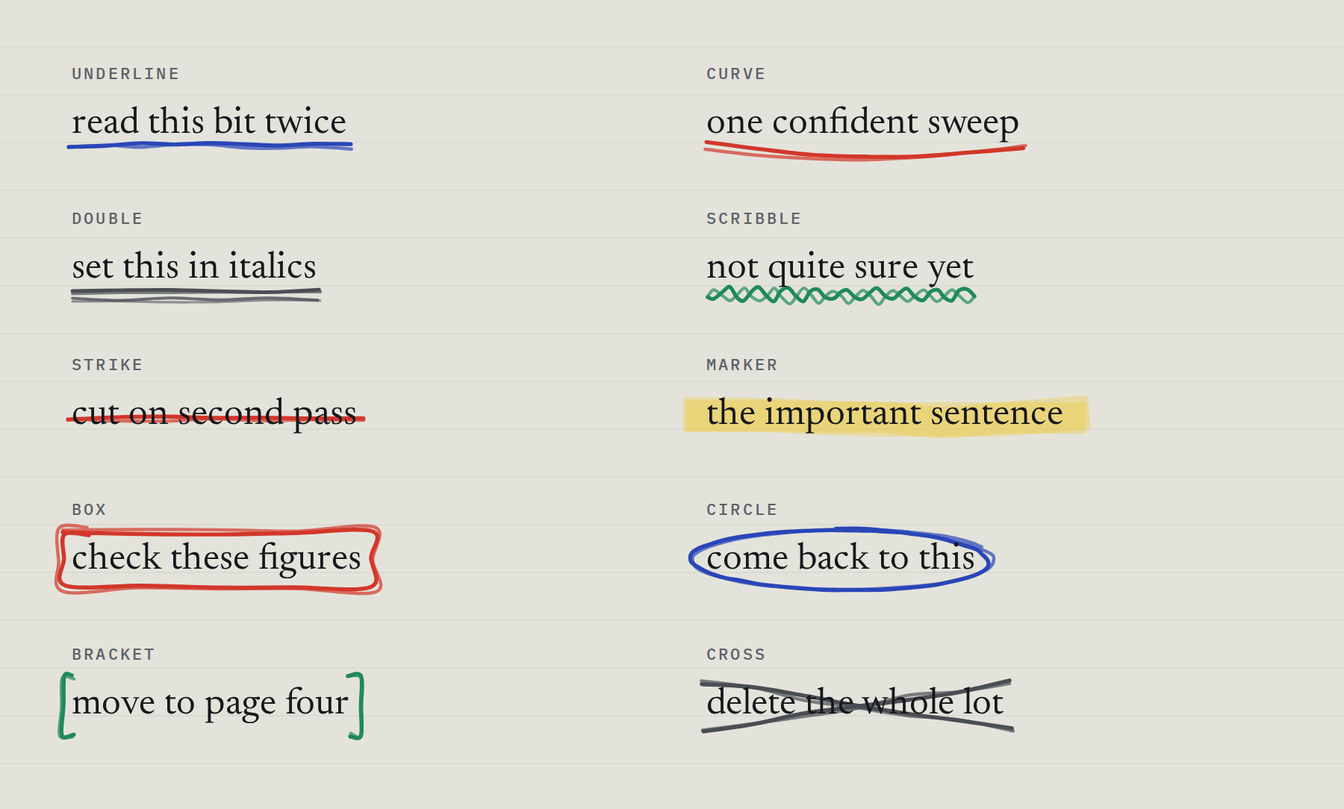
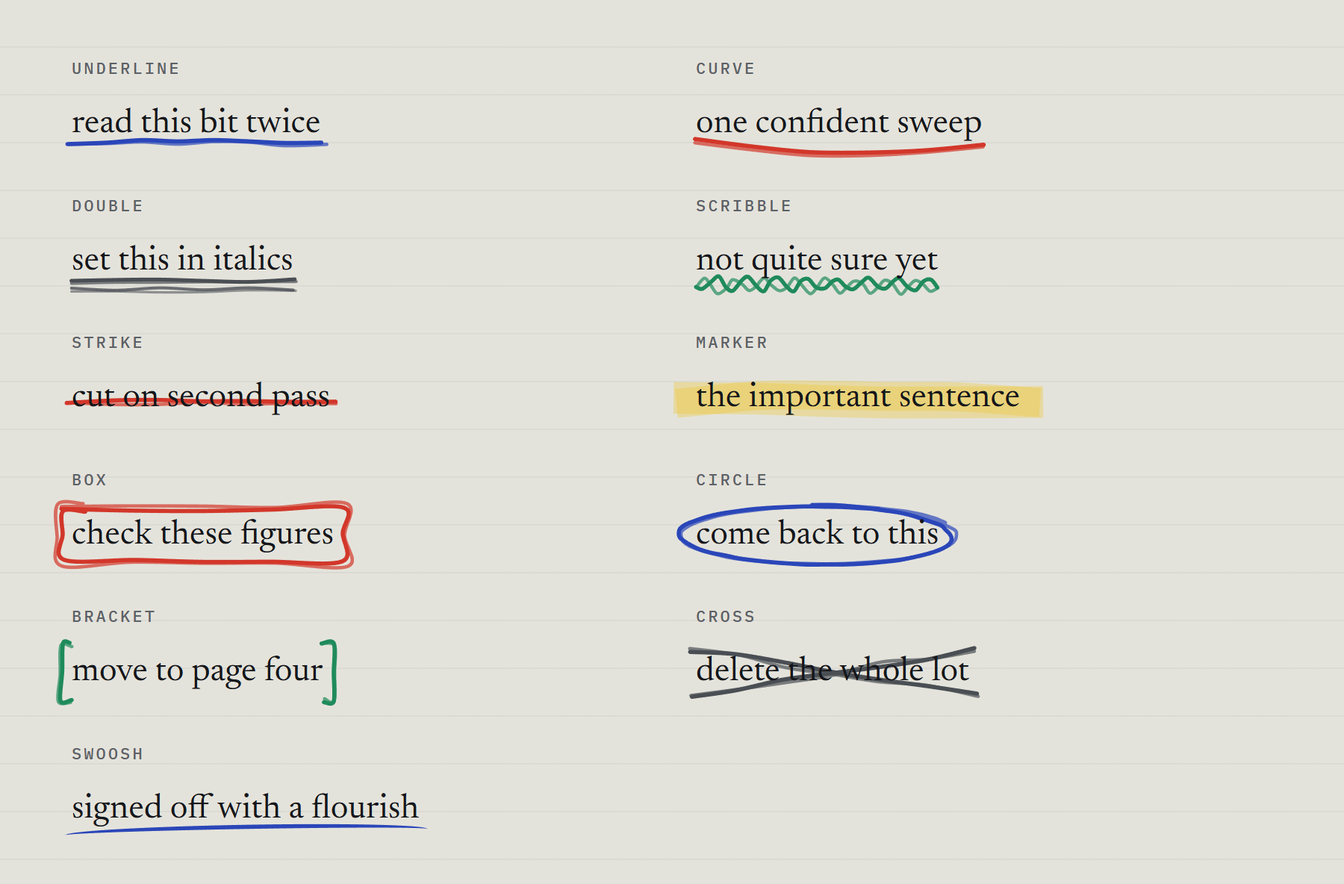
Release 0.2.0
Bump every banner, Scrawl.version, the demo's margin mark and the README's
jsDelivr pin to 0.2.0. Retake the shapes screenshot with swoosh in it and
add one of the arrows, the curl and a sticky note.

diff --git a/scrawl.min.js b/scrawl.min.js
@@ -1,9 +1,9 @@
 /*!
- * Scrawl v0.1.0
+ * Scrawl v0.2.0
  * Hand drawn annotation strokes for HTML text. No dependencies.
  * Draws seeded, slightly wonky SVG paths behind (or over) inline text,
  * one stroke per line box, and arrows from one element to another, with
  * an optional draw on reveal.
  * MIT licence.
  */
-!function(t,e){"use strict";"object"==typeof module&&module.exports?module.exports=e():t.Scrawl=e()}("undefined"!=typeof self?self:this,(function(){"use strict";var t="http://www.w3.org/2000/svg",e="cubic-bezier(.25,.6,.35,1)",r={underline:1,curve:1,scribble:1,marker:1,strike:1,double:1,swoosh:1},s={arrow:1,curl:1},i={type:"underline",color:null,thickness:null,opacity:null,passes:2,jitter:1,animate:!0,duration:650,delay:0,stagger:.35,direction:"right",front:null,seed:null,repeat:!1,threshold:.2,respectReducedMotion:!0,to:null,within:null,gap:null,head:"end"};function n(t){var e=t>>>0;return function(){e=e+1831565813|0;var t=Math.imul(e^e>>>15,1|e);return(((t=t+Math.imul(t^t>>>7,61|t)^t)^t>>>14)>>>0)/4294967296}}function o(t){for(var e=2166136261,r=0;r<t.length;r++)e^=t.charCodeAt(r),e=Math.imul(e,16777619);return e>>>0}function h(t){return Math.round(100*t)/100}function a(t){if(t.length<2)return"";for(var e="M"+h(t[0][0])+" "+h(t[0][1]),r=0;r<t.length-1;r++){var s=t[r-1]||t[r],i=t[r],n=t[r+1],o=t[r+2]||t[r+1];e+="C"+h(i[0]+(n[0]-s[0])/6)+" "+h(i[1]+(n[1]-s[1])/6)+" "+h(n[0]-(o[0]-i[0])/6)+" "+h(n[1]-(o[1]-i[1])/6)+" "+h(n[0])+" "+h(n[1])}return e}function u(t,e){return(t()-.5)*e}function l(t){return Math.max(1,Math.round(t.passes)||1)}function d(t){return 0===t?1:Math.max(.55,1-.18*t)}function c(t){return 0===t?1:Math.max(.38,1-.3*t)}function f(t,e,r){return t<e?e:t>r?r:t}function p(t,e,r,s,i,n,o,h){for(var a=0;a<n;a++){var l=a/n;t.push([e+(s-e)*l+u(o,h),r+(i-r)*l+u(o,h)])}}function v(t,e,r){var s,i=t.x+t.w/2,n=t.y+t.h/2,o=e.x+e.w/2,h=e.y+e.h/2,a=Math.max(e.x-t.x-t.w,t.x-e.x-e.w),u=Math.max(e.y-t.y-t.h,t.y-e.y-e.h);if(a<=0&&u<=0)return null;if(a>=u){var l=o>i?1:-1;return s=Math.min(r,a/3),{sx:i+l*(t.w/2+s),sy:n,ex:o-l*(e.w/2+s),ey:h,dx:l,dy:0}}var d=h>n?1:-1;return s=Math.min(r,u/3),{sx:i,sy:n+d*(t.h/2+s),ex:o,ey:h-d*(e.h/2+s),dx:0,dy:d}}function w(t){return null!=t.gap?t.gap:Math.max(4,2.5*t.thickness)}function y(t,e){var r=e[0]-t[0],s=e[1]-t[1];return Math.sqrt(r*r+s*s)}function m(t,e){var r,s,i,n,o,h,a,l,d,c=[t[0].p[0]],f=[0];for(r=0;r<t.length;r++){var p=t[r].p,v=(y(p[0],p[1])+y(p[1],p[2])+y(p[2],p[3])+y(p[0],p[3]))/2,w=Math.max(2,Math.ceil(v/t[r].step));for(s=1;s<=w;s++)c.push((o=void 0,h=void 0,a=void 0,l=void 0,d=void 0,a=3*(o=1-(n=s/w))*o*n,l=3*o*n*n,d=n*n*n,[(h=o*o*o)*(i=p)[0][0]+a*i[1][0]+l*i[2][0]+d*i[3][0],h*i[0][1]+a*i[1][1]+l*i[2][1]+d*i[3][1]])),f.push(t[r].amp)}var m=c.length-1;for(s=1;s<m;s++){var g=Math.sin(Math.PI*s/m);c[s]=[c[s][0]+u(e,f[s])*g,c[s][1]+u(e,f[s])*g]}return c}function g(t,e,r,s,i){for(var n=e?-1:1,o=e?t.length-1:0,a=t[o],l=a,f=Math.max(7,5.5*r.thickness),p=o+n;p>=0&&p<t.length&&!(y(l=t[p],a)>=.6*f);p+=n);for(var v=y(l,a)||1,w=(a[0]-l[0])/v,m=(a[1]-l[1])/v,g=[],k=1;k>=-1;k-=2){var _=k*(.5+u(s,.16*r.jitter)),x=f*(1+u(s,.24*r.jitter)),M=Math.cos(_),b=Math.sin(_);g.push([a[0]-x*(w*M-m*b),a[1]-x*(w*b+m*M)])}return{d:"M"+h(g[0][0])+" "+h(g[0][1])+"L"+h(a[0])+" "+h(a[1])+"L"+h(g[1][0])+" "+h(g[1][1]),w:r.thickness*d(i),o:c(i),then:!0,span:.3}}function k(t,e,r,s,i){"end"!==r.head&&"both"!==r.head||t.push(g(e,!0,r,s,i)),"start"!==r.head&&"both"!==r.head||t.push(g(e,!1,r,s,i))}var _=[[28,-12],[46,4],[36,22],[24,40],[10,17],[32,15],[46,13]];function x(t,e,r,s,i,n,o,h){var a=(t[0]+u(o,h))*r,l=(t[1]+u(o,h))*r*s;return[e.sx+e.dx*a+i*l,e.sy+e.dy*a+n*l]}var M={underline:function(t,e,r){for(var s=[],i=0;i<l(e);i++){for(var n=f(Math.round(t.w/24),3,90),o=t.y+t.h+.4*e.thickness+i*e.thickness*.7*(.6+.8*r()),h=1.8*e.thickness*e.jitter,p=[],v=0;v<=n;v++){var w=v/n,y=t.x+w*t.w;0===v&&(y-=h*r()),v===n&&(y+=h*r());var m=o+u(r,e.thickness*e.jitter)-Math.sin(w*Math.PI)*e.thickness*.3;p.push([y,m])}s.push({d:a(p),w:e.thickness*d(i),o:c(i)})}return s},curve:function(t,e,r){for(var s=[],i=0;i<l(e);i++){for(var n=f(Math.round(t.w/36),4,60),o=t.y+t.h+.3*e.thickness+i*e.thickness*.6,h=f(.035*t.w,1.6*e.thickness,7*e.thickness)*(.85+.35*r())*e.jitter,p=u(r,1.4*e.thickness*e.jitter),v=[],w=0;w<=n;w++){var y=w/n,m=t.x+y*t.w+(0===w?-e.thickness*r():w===n?2*e.thickness*r():0),g=o+Math.sin(y*Math.PI)*h+p*(y-.5)*2+u(r,.3*e.thickness);v.push([m,g])}s.push({d:a(v),w:e.thickness*d(i),o:c(i)})}return s},double:function(t,e,r){for(var s=[],i=0;i<l(e);i++)for(var n=0;n<2;n++){for(var o=f(Math.round(t.w/30),3,70),h=t.y+t.h+.5*e.thickness+n*e.thickness*2.1+i*e.thickness*.4,p=[],v=0;v<=o;v++){var w=v/o,y=t.x+w*t.w+(v===o?1.4*e.thickness*r():0);p.push([y,h+u(r,.7*e.thickness*e.jitter)])}s.push({d:a(p),w:e.thickness*(n?.72:.9)*d(i),o:(n?.8:1)*c(i)})}return s},scribble:function(t,e,r){for(var s=[],i=t.y+t.h+1.3*e.thickness,n=1.6*e.thickness*e.jitter,o=f(Math.round(t.w/20),3,55),h=0;h<l(e);h++){for(var p=f(4*o,8,200),v=h*Math.PI*.8+.7*r(),w=[],y=0;y<=p;y++){var m=y/p,g=t.x+m*t.w+u(r,.5*e.thickness),k=i+Math.sin(m*o*Math.PI*2+v)*n*(.7+.6*r())+(h?.5*e.thickness:0);w.push([g,k])}s.push({d:a(w),w:.95*e.thickness*d(h),o:c(h)})}return s},strike:function(t,e,r){for(var s=[],i=0;i<l(e);i++){for(var n=f(Math.round(t.w/30),3,70),o=t.y+.58*t.h+i*e.thickness*.6,h=2*e.thickness*e.jitter,p=[],v=0;v<=n;v++){var w=v/n,y=t.x+w*t.w;0===v&&(y-=h*r()),v===n&&(y+=h*r()),p.push([y,o+u(r,.9*e.thickness*e.jitter)])}s.push({d:a(p),w:e.thickness*d(i),o:c(i)})}return s},marker:function(t,e,r){for(var s=[],i=0;i<l(e);i++){for(var n=f(Math.round(t.w/40),3,40),o=t.y+.56*t.h+(i?u(r,.12*t.h):0),h=[],d=0;d<=n;d++){var c=d/n,p=t.x+c*t.w;0===d&&(p-=t.h*(.18-.04*i)),d===n&&(p+=t.h*(.22-.05*i)),h.push([p,o+u(r,.2*t.h*e.jitter)])}s.push({d:a(h),w:t.h*(.92-.08*i),o:1,cap:"square"})}return s},box:function(t,e,r){for(var s=[],i=1.2*e.thickness*e.jitter,n=0;n<l(e);n++){var o=2*e.thickness+n*e.thickness*.9,h=t.x-o,v=t.x+t.w+o,w=t.y-o,y=t.y+t.h+o,m=[];p(m,h,w,v,w,f(Math.round(t.w/45),3,20),r,i),p(m,v,w,v,y,f(Math.round(t.h/20),2,10),r,i),p(m,v,y,h,y,f(Math.round(t.w/45),3,20),r,i),p(m,h,y,h,w,f(Math.round(t.h/20),2,10),r,i),m.push([h+u(r,i),w+u(r,i)]),m.push([h+.06*t.w+r()*t.w*.06,w+u(r,i)]),s.push({d:a(m),w:e.thickness*d(n),o:c(n)})}return s},circle:function(t,e,r){for(var s=[],i=t.x+t.w/2,n=t.y+t.h/2,o=t.w/2+3*e.thickness,h=t.h/2+3*e.thickness,f=0;f<l(e);f++){for(var p=.55*-Math.PI+.35*r(),v=2*Math.PI*(1.05+.14*r()),w=[],y=0;y<=48;y++){var m=p+v*(y/48),g=1+.035*Math.sin(2.3*m+f)*e.jitter+u(r,.022*e.jitter);w.push([i+Math.cos(m)*o*g+1.4*f,n+Math.sin(m)*h*g])}s.push({d:a(w),w:e.thickness*d(f),o:c(f)})}return s},bracket:function(t,e,r){var s=2.5*e.thickness,i=t.x-s,n=t.x+t.w+s,o=t.y-s,h=t.y+t.h+s,p=f(.3*t.h,4,26),v=1.1*e.thickness*e.jitter;function w(t,s,i){return{d:a([[t+s*p+u(r,v),o+u(r,v)],[t+u(r,v),o+u(r,.6*v)],[t+u(r,.6*v),o+.5*(h-o)+u(r,v)],[t+u(r,v),h+u(r,.6*v)],[t+s*p+u(r,v),h+u(r,v)]]),w:e.thickness*d(i),o:c(i)}}for(var y=[],m=0;m<l(e);m++)y.push(w(i-m,1,m),w(n+m,-1,m));return y},cross:function(t,e,r){var s=1.5*e.thickness,i=t.x-s,n=t.x+t.w+s,o=t.y-s,h=t.y+t.h+s,f=1.4*e.thickness*e.jitter;function p(t,s,i,n,o){for(var h=[],l=0;l<=6;l++){var p=l/6;h.push([t+(i-t)*p+u(r,f),s+(n-s)*p+u(r,f)])}return{d:a(h),w:e.thickness*d(o),o:c(o)}}for(var v=[],w=0;w<l(e);w++)v.push(p(i,o,n,h,w),p(n,o,i,h,w));return v},swoosh:function(t,e){var r=e.thickness,s=(t.w+3.5*r)/2,i=1.75*r,n=t.x-1.5*r+s,o=t.y+t.h+1.35*r,a=-e.jitter,u=a*Math.PI/180,l=s*Math.cos(u),d=s*Math.sin(u),c=h(n-l)+" "+h(o-d),f=h(n+l)+" "+h(o+d);function p(t,e,r){return"A"+h(s)+" "+h(t)+" "+h(a)+" 0 "+e+" "+r}return[{d:"M"+c+p(i-r/2,1,f),fill:"M"+c+p(i,1,f)+p(i-r,0,c)+"Z",w:2*r,cap:"butt",o:1}]},arrow:function(t,e,r,s){var i=v(t,s,w(e));if(!i)return[];for(var n=Math.abs(i.dx?i.ex-i.sx:i.ey-i.sy)/2,o=-i.dy,h=i.dx,f=u(r,.14*y([i.sx,i.sy],[i.ex,i.ey]))*e.jitter,p=[],g=0;g<l(e);g++){var _=f+(g?u(r,2*e.thickness*e.jitter):0),x=m([{p:[[i.sx,i.sy],[i.sx+i.dx*n+o*_,i.sy+i.dy*n+h*_],[i.ex-i.dx*n+o*_,i.ey-i.dy*n+h*_],[i.ex,i.ey]],step:28,amp:.9*e.thickness*e.jitter}],r);p.push({d:a(x),w:e.thickness*d(g),o:c(g)}),k(p,x,e,r,g)}return p},curl:function(t,e,r,s){var i=v(t,s,w(e));if(!i)return[];for(var n=[i.sx,i.sy],o=[i.ex,i.ey],h=i.dy,u=-i.dx,p=(o[0]-n[0])*h+(o[1]-n[1])*u,g=Math.abs(p)>e.thickness?p>0?1:-1:(i.dx?u:h)>0?1:-1,M=Math.min(f(e.thickness/1.7,.85,2.4),.5*y(n,o)/46),b=.3*e.thickness*e.jitter,A=[],j=0;j<l(e);j++){for(var T=[],C=0;C<_.length;C++)T.push(x(_[C],i,M,g,h,u,r,4*e.jitter));var S=y(T[5],o),L=y(T[5],T[6])||1,N=Math.max(14*M,.18*S),R=Math.max(24*M,.16*S),E=[T[5][0]+(T[6][0]-T[5][0])/L*N,T[5][1]+(T[6][1]-T[5][1])/L*N],I=[o[0]-i.dx*R-8*h*M*g,o[1]-i.dy*R-8*u*M*g],O=m([{p:[n,T[0],T[1],T[2]],step:6,amp:b},{p:[T[2],T[3],T[4],T[5]],step:6,amp:b},{p:[T[5],E,I,o],step:28,amp:.9*e.thickness*e.jitter}],r);A.push({d:a(O),w:e.thickness*d(j),o:c(j)}),k(A,O,e,r,j)}return A}},b=0,A={marker:.32};function j(t,e){this.el=t,this.opts=e,this.svg=null,this.strokes=[],this._seq=[],this.shown=!1,this._hidden=!1,this._revealed=!1,this._host=null,this._io=null,this._ro=null,this._anims=null,this._revealTimer=null}function T(t,e){return Object.prototype.hasOwnProperty.call(t,e)}function C(t){for(var e=1/0,r=1/0,s=-1/0,i=-1/0,n=0;n<t.length;n++)e=Math.min(e,t[n].x),r=Math.min(r,t[n].y),s=Math.max(s,t[n].x+t[n].w),i=Math.max(i,t[n].y+t[n].h);return{x:e,y:r,w:s-e,h:i-r}}function S(t,e){for(var r=e.x+e.w/2,s=e.y+e.h/2,i=t[0],n=1/0,o=0;o<t.length;o++){var h=t[o].x+t[o].w/2-r,a=t[o].y+t[o].h/2-s;h*h+a*a<n&&(n=h*h+a*a,i=t[o])}return i}function L(t){if(!t)return null;if("string"==typeof t)try{return document.querySelector(t)}catch(t){return null}return 1===t.nodeType?t:null}function N(t){var e=0;try{e=t.getTotalLength()}catch(t){e=0}return e||1}function R(t,e){return"threshold"===t?f(e,0,1):"duration"===t||"delay"===t||"stagger"===t?Math.max(0,e):"opacity"===t?f(e,0,1):"thickness"===t||"jitter"===t||"passes"===t||"gap"===t?Math.max(0,e):e}j.prototype._stopAnims=function(){if(this._anims){for(var t=0;t<this._anims.length;t++)try{this._anims[t].cancel()}catch(t){}this._anims=null}},j.prototype._muted=function(t){return!1!==t.respectReducedMotion&&window.matchMedia&&window.matchMedia("(prefers-reduced-motion: reduce)").matches},j.prototype._resolve=function(){var t=window.getComputedStyle(this.el),e=parseFloat(t.fontSize)||16,r={};for(var i in this.opts)T(this.opts,i)&&(r[i]=this.opts[i]);M[r.type]||(r.type="underline"),r.thickness=null!=r.thickness?r.thickness:Math.max(1.4,.085*e),r.color=r.color||t.color||"#000",r.jitter=null==r.jitter?1:r.jitter,null==r.opacity&&(r.opacity=null!=A[r.type]?A[r.type]:1);var n=!!s[r.type];return null==r.front&&(r.front=n),n&&(r.direction="right","start"!==r.head&&"both"!==r.head&&"none"!==r.head&&(r.head="end")),r},j.prototype.render=function(){this.destroySvg();var e=this.el;if(!e.parentNode||!e.getClientRects||!e.getClientRects().length)return this;var i=this._resolve(),a=e.parentNode,u=null;if(s[i.type]){if(!(u=L(i.to))||u===e||!u.getClientRects().length)return this;a=L(i.within)||function(t,e){for(var r=t.parentNode;r&&1===r.nodeType;r=r.parentNode)if(r!==e&&r.contains(e)){if(r===document.documentElement)break;var s=window.getComputedStyle(r).display;if("contents"!==s&&"inline"!==s)return r}return document.body}(e,u)}if(!a||!a.getBoundingClientRect)return this;var l=a.getBoundingClientRect(),d=window.getComputedStyle(a);this._host!==a&&(this._releaseHost(),this._host=a,a.__scrawlHost||(a.__scrawlHost={pos:a.style.position,iso:a.style.isolation})),"static"===d.position&&(a.style.position="relative"),i.front||"isolate"===d.isolation||(a.style.isolation="isolate");var c,f,p=parseFloat(d.borderLeftWidth)||0,v=parseFloat(d.borderTopWidth)||0,w=1,y=1;function m(t,e){for(var r=t.getClientRects(),s=[],i=0;i<r.length;i++){var n=r[i];n.width<.5&&!(e&&n.height>0)||s.push({x:(n.left-l.left)/w-p+a.scrollLeft,y:(n.top-l.top)/y-v+a.scrollTop,w:n.width/w,h:n.height/y})}return s}a.offsetWidth>0&&l.width>0&&(c=l.width/a.offsetWidth,Math.abs(c-1)>.005&&(w=c)),a.offsetHeight>0&&l.height>0&&(c=l.height/a.offsetHeight,Math.abs(c-1)>.005&&(y=c));var g=m(e,!!u);if(!g.length)return this;var k,_=null;if(u){var x=m(u,!0);if(!x.length)return this;k=[S(g,C(x))],_=S(x,k[0])}else k=r[i.type]?g:[C(g)];var A=Math.max(6*i.thickness,.9*k[0].h,14),j=C(_?[k[0],_]:k),T=j.x-A,N=j.y-A,R=j.w+2*A,E=j.h+2*A,I=document.createElementNS(t,"svg");I.setAttribute("class","scrawl-svg"),I.setAttribute("width",R),I.setAttribute("height",E),I.setAttribute("viewBox","0 0 "+h(R)+" "+h(E)),I.setAttribute("aria-hidden","true"),I.setAttribute("focusable","false");var O=I.style;O.position="absolute",O.left=h(T)+"px",O.top=h(N)+"px",O.width=h(R)+"px",O.height=h(E)+"px",O.pointerEvents="none",O.overflow="visible",O.zIndex=i.front?"1":"-1";var q=n(null!=i.seed?"number"==typeof i.seed?i.seed:o(String(i.seed)):o((e.textContent||"")+(u&&u.textContent||"")+i.type)),D=M[i.type]||M.underline,H=_?{x:_.x-T,y:_.y-N,w:_.w,h:_.h}:void 0;this.strokes=[],this._seq=[];var P=[];for(f=0;f<k.length;f++)for(var F=D({x:k[f].x-T,y:k[f].y-N,w:k[f].w,h:k[f].h},i,q,H),B=0;B<F.length;B++){var z=document.createElementNS(t,"path"),W=(null!=F[B].o?F[B].o:1)*i.opacity;if(z.setAttribute("d",F[B].d),z.setAttribute("fill","none"),z.setAttribute("stroke",i.color),z.setAttribute("stroke-width",h(F[B].w)),z.setAttribute("stroke-linecap",F[B].cap||"round"),z.setAttribute("stroke-linejoin","round"),F[B].fill){var U=document.createElementNS(t,"mask"),Q="scrawl-mask-"+ ++b;U.setAttribute("id",Q),U.setAttribute("maskUnits","userSpaceOnUse"),U.setAttribute("x",0),U.setAttribute("y",0),U.setAttribute("width",h(R)),U.setAttribute("height",h(E)),z.setAttribute("stroke","#fff"),U.appendChild(z),I.appendChild(U);var Z=document.createElementNS(t,"path");Z.setAttribute("d",F[B].fill),Z.setAttribute("fill",i.color),Z.setAttribute("mask","url(#"+Q+")"),Z.setAttribute("opacity",W),I.appendChild(Z),P.push({node:Z,reach:0})}else z.setAttribute("opacity",W),I.appendChild(z),P.push({node:z,reach:F[B].w/2*("square"===F[B].cap?Math.SQRT2:1)});this.strokes.push(z),this._seq.push({then:!!F[B].then,span:F[B].span||1})}return this.strokes.length?(a.appendChild(I),function(t,e,r,s){for(var i=1/0,n=1/0,o=-1/0,a=-1/0,u=0;u<e.length;u++){var l;try{l=e[u].node.getBBox()}catch(t){return}var d=e[u].reach+1;i=Math.min(i,l.x-d),n=Math.min(n,l.y-d),o=Math.max(o,l.x+l.width+d),a=Math.max(a,l.y+l.height+d)}if(!(o>i&&a>n))return;i=Math.floor(i),n=Math.floor(n);var c=Math.ceil(o)-i,f=Math.ceil(a)-n;t.setAttribute("width",h(c)),t.setAttribute("height",h(f)),t.setAttribute("viewBox",h(i)+" "+h(n)+" "+h(c)+" "+h(f));var p=t.style;p.left=h(r+i)+"px",p.top=h(s+n)+"px",p.width=h(c)+"px",p.height=h(f)+"px"}(I,P,T,N),this.svg=I,this._resolved=i,this.shown?this._paint(!1):this._hideStrokes(this._hidden),this):this},j.prototype._hideStrokes=function(t){var e=this._resolved||this.opts;if(e.animate&&!this._muted(e))for(var r=0;r<this.strokes.length;r++){var s=N(this.strokes[r]),i=this.strokes[r].style;i.transition="none",i.strokeDasharray=s+" "+s,i.strokeDashoffset="left"===e.direction?-s:s}else t&&this.svg&&(this.svg.style.visibility="hidden")},j.prototype._paint=function(t){var r,s,i,n=this._resolved||this.opts,o=t&&n.animate&&!this._muted(n);if(this._stopAnims(),this._revealTimer&&(clearTimeout(this._revealTimer),this._revealTimer=null),this.svg&&this.strokes.length)if(this._hidden=!1,this.svg.style.visibility="",o){this._revealed=!1;var h=this.strokes.length&&"function"==typeof this.strokes[0].animate,a=n.delay+n.duration,u=this._timing(n);for(this._anims=[],r=0;r<this.strokes.length;r++){i=(s=this.strokes[r]).style;var l=N(s),d="left"===n.direction?-l:l;a=Math.max(a,u[r].wait+u[r].dur),i.strokeDasharray=l+" "+l,h?(i.transition="none",i.strokeDashoffset="0",this._anims.push(s.animate([{strokeDashoffset:d},{strokeDashoffset:0}],{duration:u[r].dur,delay:u[r].wait,easing:e,fill:"backwards"}))):(i.transition="none",i.strokeDashoffset=d)}if(!h)for(this.svg.getBoundingClientRect(),r=0;r<this.strokes.length;r++)this.strokes[r].style.transition="stroke-dashoffset "+u[r].dur/1e3+"s "+e+" "+u[r].wait/1e3+"s",this.strokes[r].style.strokeDashoffset="0";var c=this;this._revealTimer=setTimeout((function(){c._revealed=!0,c._revealTimer=null}),a+60)}else{for(r=0;r<this.strokes.length;r++)(i=this.strokes[r].style).transition="none",i.strokeDasharray="none",i.strokeDashoffset="0";this._revealed=!0}},j.prototype._timing=function(t){for(var e=[],r=0,s=0;s<this.strokes.length;s++){var i=this._seq[s]||{},n=e[s-1];e.push({wait:i.then&&n?n.wait+.8*n.dur:t.delay+r++*t.duration*t.stagger,dur:t.duration*(i.span||1)})}return e},j.prototype.show=function(t){return this.shown=!0,this.svg||this.render(),this._paint(!1!==t),this},j.prototype.hide=function(){return this.shown=!1,this._hidden=!0,this._stopAnims(),this._revealTimer&&(clearTimeout(this._revealTimer),this._revealTimer=null),this._revealed=!1,this._hideStrokes(!0),this},j.prototype.refresh=function(){var t=this.shown,e=this._revealed;return this.render(),t&&this._paint(!e),this},j.prototype.destroySvg=function(){this._stopAnims(),this.svg&&this.svg.parentNode&&this.svg.parentNode.removeChild(this.svg),this.svg=null,this.strokes=[],this._seq=[]},j.prototype._releaseHost=function(){var t=this._host;if(this._host=null,t){for(var e=0;e<O.length;e++)if(O[e]!==this&&O[e]._host===t)return;var r=t.__scrawlHost;r&&(t.style.position=r.pos,t.style.isolation=r.iso,t.__scrawlHost=null)}},j.prototype.remove=function(){this._io&&(this._io.disconnect(),this._io=null),this._ro&&(this._ro.disconnect(),this._ro=null),this._revealTimer&&(clearTimeout(this._revealTimer),this._revealTimer=null);var t=O.indexOf(this);return t>-1&&O.splice(t,1),this.el&&this.el.__scrawl===this&&(this.el.__scrawl=null),this._releaseHost(),this.destroySvg(),this},j.prototype.observe=function(){var t=this;if(!("IntersectionObserver"in window))return this.show(!0),this;this._io&&(this._io.disconnect(),this._io=null);var e=this.opts.threshold;return"number"==typeof e&&isFinite(e)||(e=i.threshold),e=f(e,0,1),this._io=new IntersectionObserver((function(e){for(var r=0;r<e.length;r++)e[r].isIntersecting?(t.show(!0),!t.opts.repeat&&t._io&&(t._io.disconnect(),t._io=null)):t.opts.repeat&&t.hide()}),{threshold:e}),this._io.observe(this.el),this};var E={thickness:1,opacity:1,passes:1,jitter:1,duration:1,delay:1,stagger:1,threshold:1,gap:1},I={animate:1,front:1,repeat:1,respectReducedMotion:1};var O=[],q=!1;function D(){q||(q=!0,requestAnimationFrame((function(){q=!1;for(var t=0;t<O.length;t++)O[t].refresh()})))}var H=null;function P(t){var e,r;if(!H)for(H=[],e=0;e<O.length;e++)r=O[e],H.push({a:r,shown:r.shown,hidden:r._hidden});for(e=0;e<O.length;e++)r=O[e],t?(r.shown=!0,r.render()):r.show(!1)}function F(){if(H){var t=H;H=null;for(var e=0;e<t.length;e++){var r=t[e].a;O.indexOf(r)<0||(r.shown=t[e].shown,r._hidden=t[e].hidden,r.render())}}}function B(t,e){if("string"==typeof t&&(t=document.querySelector(t)),!t)return null;var r,n={};for(r in i)T(i,r)&&(n[r]=i[r]);var o=function(t){var e={},r=t.dataset||{};for(var s in r.scrawl&&(e.type=r.scrawl),r)if(T(r,s)&&"scrawl"!==s&&0===s.indexOf("scrawl")){var i=s.charAt(6).toLowerCase()+s.slice(7),n=r[s];if(E[i]){var o=parseFloat(n);isFinite(o)&&(e[i]=R(i,o))}else I[i]?e[i]=!("false"===n||"0"===n):"seed"===i&&/^-?\d+(?:\.\d+)?$/.test(n)?e[i]=parseFloat(n):e[i]=n}return e}(t);for(r in o)T(o,r)&&(n[r]=o[r]);if(e)for(r in e)T(e,r)&&(n[r]=e[r]);var h=new j(t,n);if(O.push(h),t.__scrawl=h,h.render(),"ResizeObserver"in window&&t.parentNode){var a=[t.parentNode];if(s[n.type]){var u=L(n.to);a=[h._host||t.parentNode,t],u&&u!==a[0]&&a.push(u)}!function(t,e){var r=[];t._ro=new ResizeObserver((function(e){for(var s=!1,i=0;i<e.length;i++){for(var n=e[i].contentRect,o=null,h=0;h<r.length;h++)if(r[h].node===e[i].target){o=r[h];break}o?((Math.abs(n.width-o.w)>.5||Math.abs(n.height-o.h)>.5)&&(s=!0),o.w=n.width,o.h=n.height):r.push({node:e[i].target,w:n.width,h:n.height})}s&&t.refresh()}));for(var s=0;s<e.length;s++)t._ro.observe(e[s])}(h,a)}return h}function z(t){for(var e=(t||document).querySelectorAll("[data-scrawl]"),r=[],s=0;s<e.length;s++)if(!e[s].__scrawl){var i=B(e[s]);if(i){try{i.observe()}catch(t){i.show(!0)}r.push(i)}}return r}var W={version:"0.1.0",shapes:["underline","curve","double","scribble","strike","marker","box","circle","bracket","cross","swoosh"],defaults:i,annotate:B,init:z,refresh:D,instances:O,generators:M,perLine:r,connectors:s,rng:n};if("undefined"!=typeof window){if(window.addEventListener("resize",D),window.addEventListener("beforeprint",(function(){P(!1)})),window.addEventListener("afterprint",F),window.matchMedia){var U=window.matchMedia("print");U.addEventListener&&U.addEventListener("change",(function(t){t.matches?P(!0):F()}))}document.fonts&&(document.fonts.ready&&document.fonts.ready.then(D).catch((function(){})),document.fonts.addEventListener&&document.fonts.addEventListener("loadingdone",D)),window.SCRAWL_NO_AUTOINIT||("loading"===document.readyState?document.addEventListener("DOMContentLoaded",(function(){z()})):z())}return W}));
+!function(t,e){"use strict";"object"==typeof module&&module.exports?module.exports=e():t.Scrawl=e()}("undefined"!=typeof self?self:this,(function(){"use strict";var t="http://www.w3.org/2000/svg",e="cubic-bezier(.25,.6,.35,1)",r={underline:1,curve:1,scribble:1,marker:1,strike:1,double:1,swoosh:1},s={arrow:1,curl:1},i={type:"underline",color:null,thickness:null,opacity:null,passes:2,jitter:1,animate:!0,duration:650,delay:0,stagger:.35,direction:"right",front:null,seed:null,repeat:!1,threshold:.2,respectReducedMotion:!0,to:null,within:null,gap:null,head:"end"};function n(t){var e=t>>>0;return function(){e=e+1831565813|0;var t=Math.imul(e^e>>>15,1|e);return(((t=t+Math.imul(t^t>>>7,61|t)^t)^t>>>14)>>>0)/4294967296}}function o(t){for(var e=2166136261,r=0;r<t.length;r++)e^=t.charCodeAt(r),e=Math.imul(e,16777619);return e>>>0}function h(t){return Math.round(100*t)/100}function a(t){if(t.length<2)return"";for(var e="M"+h(t[0][0])+" "+h(t[0][1]),r=0;r<t.length-1;r++){var s=t[r-1]||t[r],i=t[r],n=t[r+1],o=t[r+2]||t[r+1];e+="C"+h(i[0]+(n[0]-s[0])/6)+" "+h(i[1]+(n[1]-s[1])/6)+" "+h(n[0]-(o[0]-i[0])/6)+" "+h(n[1]-(o[1]-i[1])/6)+" "+h(n[0])+" "+h(n[1])}return e}function u(t,e){return(t()-.5)*e}function l(t){return Math.max(1,Math.round(t.passes)||1)}function d(t){return 0===t?1:Math.max(.55,1-.18*t)}function c(t){return 0===t?1:Math.max(.38,1-.3*t)}function f(t,e,r){return t<e?e:t>r?r:t}function p(t,e,r,s,i,n,o,h){for(var a=0;a<n;a++){var l=a/n;t.push([e+(s-e)*l+u(o,h),r+(i-r)*l+u(o,h)])}}function v(t,e,r){var s,i=t.x+t.w/2,n=t.y+t.h/2,o=e.x+e.w/2,h=e.y+e.h/2,a=Math.max(e.x-t.x-t.w,t.x-e.x-e.w),u=Math.max(e.y-t.y-t.h,t.y-e.y-e.h);if(a<=0&&u<=0)return null;if(a>=u){var l=o>i?1:-1;return s=Math.min(r,a/3),{sx:i+l*(t.w/2+s),sy:n,ex:o-l*(e.w/2+s),ey:h,dx:l,dy:0}}var d=h>n?1:-1;return s=Math.min(r,u/3),{sx:i,sy:n+d*(t.h/2+s),ex:o,ey:h-d*(e.h/2+s),dx:0,dy:d}}function w(t){return null!=t.gap?t.gap:Math.max(4,2.5*t.thickness)}function y(t,e){var r=e[0]-t[0],s=e[1]-t[1];return Math.sqrt(r*r+s*s)}function m(t,e){var r,s,i,n,o,h,a,l,d,c=[t[0].p[0]],f=[0];for(r=0;r<t.length;r++){var p=t[r].p,v=(y(p[0],p[1])+y(p[1],p[2])+y(p[2],p[3])+y(p[0],p[3]))/2,w=Math.max(2,Math.ceil(v/t[r].step));for(s=1;s<=w;s++)c.push((o=void 0,h=void 0,a=void 0,l=void 0,d=void 0,a=3*(o=1-(n=s/w))*o*n,l=3*o*n*n,d=n*n*n,[(h=o*o*o)*(i=p)[0][0]+a*i[1][0]+l*i[2][0]+d*i[3][0],h*i[0][1]+a*i[1][1]+l*i[2][1]+d*i[3][1]])),f.push(t[r].amp)}var m=c.length-1;for(s=1;s<m;s++){var g=Math.sin(Math.PI*s/m);c[s]=[c[s][0]+u(e,f[s])*g,c[s][1]+u(e,f[s])*g]}return c}function g(t,e,r,s,i){for(var n=e?-1:1,o=e?t.length-1:0,a=t[o],l=a,f=Math.max(7,5.5*r.thickness),p=o+n;p>=0&&p<t.length&&!(y(l=t[p],a)>=.6*f);p+=n);for(var v=y(l,a)||1,w=(a[0]-l[0])/v,m=(a[1]-l[1])/v,g=[],k=1;k>=-1;k-=2){var _=k*(.5+u(s,.16*r.jitter)),x=f*(1+u(s,.24*r.jitter)),M=Math.cos(_),b=Math.sin(_);g.push([a[0]-x*(w*M-m*b),a[1]-x*(w*b+m*M)])}return{d:"M"+h(g[0][0])+" "+h(g[0][1])+"L"+h(a[0])+" "+h(a[1])+"L"+h(g[1][0])+" "+h(g[1][1]),w:r.thickness*d(i),o:c(i),then:!0,span:.3}}function k(t,e,r,s,i){"end"!==r.head&&"both"!==r.head||t.push(g(e,!0,r,s,i)),"start"!==r.head&&"both"!==r.head||t.push(g(e,!1,r,s,i))}var _=[[28,-12],[46,4],[36,22],[24,40],[10,17],[32,15],[46,13]];function x(t,e,r,s,i,n,o,h){var a=(t[0]+u(o,h))*r,l=(t[1]+u(o,h))*r*s;return[e.sx+e.dx*a+i*l,e.sy+e.dy*a+n*l]}var M={underline:function(t,e,r){for(var s=[],i=0;i<l(e);i++){for(var n=f(Math.round(t.w/24),3,90),o=t.y+t.h+.4*e.thickness+i*e.thickness*.7*(.6+.8*r()),h=1.8*e.thickness*e.jitter,p=[],v=0;v<=n;v++){var w=v/n,y=t.x+w*t.w;0===v&&(y-=h*r()),v===n&&(y+=h*r());var m=o+u(r,e.thickness*e.jitter)-Math.sin(w*Math.PI)*e.thickness*.3;p.push([y,m])}s.push({d:a(p),w:e.thickness*d(i),o:c(i)})}return s},curve:function(t,e,r){for(var s=[],i=0;i<l(e);i++){for(var n=f(Math.round(t.w/36),4,60),o=t.y+t.h+.3*e.thickness+i*e.thickness*.6,h=f(.035*t.w,1.6*e.thickness,7*e.thickness)*(.85+.35*r())*e.jitter,p=u(r,1.4*e.thickness*e.jitter),v=[],w=0;w<=n;w++){var y=w/n,m=t.x+y*t.w+(0===w?-e.thickness*r():w===n?2*e.thickness*r():0),g=o+Math.sin(y*Math.PI)*h+p*(y-.5)*2+u(r,.3*e.thickness);v.push([m,g])}s.push({d:a(v),w:e.thickness*d(i),o:c(i)})}return s},double:function(t,e,r){for(var s=[],i=0;i<l(e);i++)for(var n=0;n<2;n++){for(var o=f(Math.round(t.w/30),3,70),h=t.y+t.h+.5*e.thickness+n*e.thickness*2.1+i*e.thickness*.4,p=[],v=0;v<=o;v++){var w=v/o,y=t.x+w*t.w+(v===o?1.4*e.thickness*r():0);p.push([y,h+u(r,.7*e.thickness*e.jitter)])}s.push({d:a(p),w:e.thickness*(n?.72:.9)*d(i),o:(n?.8:1)*c(i)})}return s},scribble:function(t,e,r){for(var s=[],i=t.y+t.h+1.3*e.thickness,n=1.6*e.thickness*e.jitter,o=f(Math.round(t.w/20),3,55),h=0;h<l(e);h++){for(var p=f(4*o,8,200),v=h*Math.PI*.8+.7*r(),w=[],y=0;y<=p;y++){var m=y/p,g=t.x+m*t.w+u(r,.5*e.thickness),k=i+Math.sin(m*o*Math.PI*2+v)*n*(.7+.6*r())+(h?.5*e.thickness:0);w.push([g,k])}s.push({d:a(w),w:.95*e.thickness*d(h),o:c(h)})}return s},strike:function(t,e,r){for(var s=[],i=0;i<l(e);i++){for(var n=f(Math.round(t.w/30),3,70),o=t.y+.58*t.h+i*e.thickness*.6,h=2*e.thickness*e.jitter,p=[],v=0;v<=n;v++){var w=v/n,y=t.x+w*t.w;0===v&&(y-=h*r()),v===n&&(y+=h*r()),p.push([y,o+u(r,.9*e.thickness*e.jitter)])}s.push({d:a(p),w:e.thickness*d(i),o:c(i)})}return s},marker:function(t,e,r){for(var s=[],i=0;i<l(e);i++){for(var n=f(Math.round(t.w/40),3,40),o=t.y+.56*t.h+(i?u(r,.12*t.h):0),h=[],d=0;d<=n;d++){var c=d/n,p=t.x+c*t.w;0===d&&(p-=t.h*(.18-.04*i)),d===n&&(p+=t.h*(.22-.05*i)),h.push([p,o+u(r,.2*t.h*e.jitter)])}s.push({d:a(h),w:t.h*(.92-.08*i),o:1,cap:"square"})}return s},box:function(t,e,r){for(var s=[],i=1.2*e.thickness*e.jitter,n=0;n<l(e);n++){var o=2*e.thickness+n*e.thickness*.9,h=t.x-o,v=t.x+t.w+o,w=t.y-o,y=t.y+t.h+o,m=[];p(m,h,w,v,w,f(Math.round(t.w/45),3,20),r,i),p(m,v,w,v,y,f(Math.round(t.h/20),2,10),r,i),p(m,v,y,h,y,f(Math.round(t.w/45),3,20),r,i),p(m,h,y,h,w,f(Math.round(t.h/20),2,10),r,i),m.push([h+u(r,i),w+u(r,i)]),m.push([h+.06*t.w+r()*t.w*.06,w+u(r,i)]),s.push({d:a(m),w:e.thickness*d(n),o:c(n)})}return s},circle:function(t,e,r){for(var s=[],i=t.x+t.w/2,n=t.y+t.h/2,o=t.w/2+3*e.thickness,h=t.h/2+3*e.thickness,f=0;f<l(e);f++){for(var p=.55*-Math.PI+.35*r(),v=2*Math.PI*(1.05+.14*r()),w=[],y=0;y<=48;y++){var m=p+v*(y/48),g=1+.035*Math.sin(2.3*m+f)*e.jitter+u(r,.022*e.jitter);w.push([i+Math.cos(m)*o*g+1.4*f,n+Math.sin(m)*h*g])}s.push({d:a(w),w:e.thickness*d(f),o:c(f)})}return s},bracket:function(t,e,r){var s=2.5*e.thickness,i=t.x-s,n=t.x+t.w+s,o=t.y-s,h=t.y+t.h+s,p=f(.3*t.h,4,26),v=1.1*e.thickness*e.jitter;function w(t,s,i){return{d:a([[t+s*p+u(r,v),o+u(r,v)],[t+u(r,v),o+u(r,.6*v)],[t+u(r,.6*v),o+.5*(h-o)+u(r,v)],[t+u(r,v),h+u(r,.6*v)],[t+s*p+u(r,v),h+u(r,v)]]),w:e.thickness*d(i),o:c(i)}}for(var y=[],m=0;m<l(e);m++)y.push(w(i-m,1,m),w(n+m,-1,m));return y},cross:function(t,e,r){var s=1.5*e.thickness,i=t.x-s,n=t.x+t.w+s,o=t.y-s,h=t.y+t.h+s,f=1.4*e.thickness*e.jitter;function p(t,s,i,n,o){for(var h=[],l=0;l<=6;l++){var p=l/6;h.push([t+(i-t)*p+u(r,f),s+(n-s)*p+u(r,f)])}return{d:a(h),w:e.thickness*d(o),o:c(o)}}for(var v=[],w=0;w<l(e);w++)v.push(p(i,o,n,h,w),p(n,o,i,h,w));return v},swoosh:function(t,e){var r=e.thickness,s=(t.w+3.5*r)/2,i=1.75*r,n=t.x-1.5*r+s,o=t.y+t.h+1.35*r,a=-e.jitter,u=a*Math.PI/180,l=s*Math.cos(u),d=s*Math.sin(u),c=h(n-l)+" "+h(o-d),f=h(n+l)+" "+h(o+d);function p(t,e,r){return"A"+h(s)+" "+h(t)+" "+h(a)+" 0 "+e+" "+r}return[{d:"M"+c+p(i-r/2,1,f),fill:"M"+c+p(i,1,f)+p(i-r,0,c)+"Z",w:2*r,cap:"butt",o:1}]},arrow:function(t,e,r,s){var i=v(t,s,w(e));if(!i)return[];for(var n=Math.abs(i.dx?i.ex-i.sx:i.ey-i.sy)/2,o=-i.dy,h=i.dx,f=u(r,.14*y([i.sx,i.sy],[i.ex,i.ey]))*e.jitter,p=[],g=0;g<l(e);g++){var _=f+(g?u(r,2*e.thickness*e.jitter):0),x=m([{p:[[i.sx,i.sy],[i.sx+i.dx*n+o*_,i.sy+i.dy*n+h*_],[i.ex-i.dx*n+o*_,i.ey-i.dy*n+h*_],[i.ex,i.ey]],step:28,amp:.9*e.thickness*e.jitter}],r);p.push({d:a(x),w:e.thickness*d(g),o:c(g)}),k(p,x,e,r,g)}return p},curl:function(t,e,r,s){var i=v(t,s,w(e));if(!i)return[];for(var n=[i.sx,i.sy],o=[i.ex,i.ey],h=i.dy,u=-i.dx,p=(o[0]-n[0])*h+(o[1]-n[1])*u,g=Math.abs(p)>e.thickness?p>0?1:-1:(i.dx?u:h)>0?1:-1,M=Math.min(f(e.thickness/1.7,.85,2.4),.5*y(n,o)/46),b=.3*e.thickness*e.jitter,A=[],j=0;j<l(e);j++){for(var T=[],C=0;C<_.length;C++)T.push(x(_[C],i,M,g,h,u,r,4*e.jitter));var S=y(T[5],o),L=y(T[5],T[6])||1,N=Math.max(14*M,.18*S),R=Math.max(24*M,.16*S),E=[T[5][0]+(T[6][0]-T[5][0])/L*N,T[5][1]+(T[6][1]-T[5][1])/L*N],I=[o[0]-i.dx*R-8*h*M*g,o[1]-i.dy*R-8*u*M*g],O=m([{p:[n,T[0],T[1],T[2]],step:6,amp:b},{p:[T[2],T[3],T[4],T[5]],step:6,amp:b},{p:[T[5],E,I,o],step:28,amp:.9*e.thickness*e.jitter}],r);A.push({d:a(O),w:e.thickness*d(j),o:c(j)}),k(A,O,e,r,j)}return A}},b=0,A={marker:.32};function j(t,e){this.el=t,this.opts=e,this.svg=null,this.strokes=[],this._seq=[],this.shown=!1,this._hidden=!1,this._revealed=!1,this._host=null,this._io=null,this._ro=null,this._anims=null,this._revealTimer=null}function T(t,e){return Object.prototype.hasOwnProperty.call(t,e)}function C(t){for(var e=1/0,r=1/0,s=-1/0,i=-1/0,n=0;n<t.length;n++)e=Math.min(e,t[n].x),r=Math.min(r,t[n].y),s=Math.max(s,t[n].x+t[n].w),i=Math.max(i,t[n].y+t[n].h);return{x:e,y:r,w:s-e,h:i-r}}function S(t,e){for(var r=e.x+e.w/2,s=e.y+e.h/2,i=t[0],n=1/0,o=0;o<t.length;o++){var h=t[o].x+t[o].w/2-r,a=t[o].y+t[o].h/2-s;h*h+a*a<n&&(n=h*h+a*a,i=t[o])}return i}function L(t){if(!t)return null;if("string"==typeof t)try{return document.querySelector(t)}catch(t){return null}return 1===t.nodeType?t:null}function N(t){var e=0;try{e=t.getTotalLength()}catch(t){e=0}return e||1}function R(t,e){return"threshold"===t?f(e,0,1):"duration"===t||"delay"===t||"stagger"===t?Math.max(0,e):"opacity"===t?f(e,0,1):"thickness"===t||"jitter"===t||"passes"===t||"gap"===t?Math.max(0,e):e}j.prototype._stopAnims=function(){if(this._anims){for(var t=0;t<this._anims.length;t++)try{this._anims[t].cancel()}catch(t){}this._anims=null}},j.prototype._muted=function(t){return!1!==t.respectReducedMotion&&window.matchMedia&&window.matchMedia("(prefers-reduced-motion: reduce)").matches},j.prototype._resolve=function(){var t=window.getComputedStyle(this.el),e=parseFloat(t.fontSize)||16,r={};for(var i in this.opts)T(this.opts,i)&&(r[i]=this.opts[i]);M[r.type]||(r.type="underline"),r.thickness=null!=r.thickness?r.thickness:Math.max(1.4,.085*e),r.color=r.color||t.color||"#000",r.jitter=null==r.jitter?1:r.jitter,null==r.opacity&&(r.opacity=null!=A[r.type]?A[r.type]:1);var n=!!s[r.type];return null==r.front&&(r.front=n),n&&(r.direction="right","start"!==r.head&&"both"!==r.head&&"none"!==r.head&&(r.head="end")),r},j.prototype.render=function(){this.destroySvg();var e=this.el;if(!e.parentNode||!e.getClientRects||!e.getClientRects().length)return this;var i=this._resolve(),a=e.parentNode,u=null;if(s[i.type]){if(!(u=L(i.to))||u===e||!u.getClientRects().length)return this;a=L(i.within)||function(t,e){for(var r=t.parentNode;r&&1===r.nodeType;r=r.parentNode)if(r!==e&&r.contains(e)){if(r===document.documentElement)break;var s=window.getComputedStyle(r).display;if("contents"!==s&&"inline"!==s)return r}return document.body}(e,u)}if(!a||!a.getBoundingClientRect)return this;var l=a.getBoundingClientRect(),d=window.getComputedStyle(a);this._host!==a&&(this._releaseHost(),this._host=a,a.__scrawlHost||(a.__scrawlHost={pos:a.style.position,iso:a.style.isolation})),"static"===d.position&&(a.style.position="relative"),i.front||"isolate"===d.isolation||(a.style.isolation="isolate");var c,f,p=parseFloat(d.borderLeftWidth)||0,v=parseFloat(d.borderTopWidth)||0,w=1,y=1;function m(t,e){for(var r=t.getClientRects(),s=[],i=0;i<r.length;i++){var n=r[i];n.width<.5&&!(e&&n.height>0)||s.push({x:(n.left-l.left)/w-p+a.scrollLeft,y:(n.top-l.top)/y-v+a.scrollTop,w:n.width/w,h:n.height/y})}return s}a.offsetWidth>0&&l.width>0&&(c=l.width/a.offsetWidth,Math.abs(c-1)>.005&&(w=c)),a.offsetHeight>0&&l.height>0&&(c=l.height/a.offsetHeight,Math.abs(c-1)>.005&&(y=c));var g=m(e,!!u);if(!g.length)return this;var k,_=null;if(u){var x=m(u,!0);if(!x.length)return this;k=[S(g,C(x))],_=S(x,k[0])}else k=r[i.type]?g:[C(g)];var A=Math.max(6*i.thickness,.9*k[0].h,14),j=C(_?[k[0],_]:k),T=j.x-A,N=j.y-A,R=j.w+2*A,E=j.h+2*A,I=document.createElementNS(t,"svg");I.setAttribute("class","scrawl-svg"),I.setAttribute("width",R),I.setAttribute("height",E),I.setAttribute("viewBox","0 0 "+h(R)+" "+h(E)),I.setAttribute("aria-hidden","true"),I.setAttribute("focusable","false");var O=I.style;O.position="absolute",O.left=h(T)+"px",O.top=h(N)+"px",O.width=h(R)+"px",O.height=h(E)+"px",O.pointerEvents="none",O.overflow="visible",O.zIndex=i.front?"1":"-1";var q=n(null!=i.seed?"number"==typeof i.seed?i.seed:o(String(i.seed)):o((e.textContent||"")+(u&&u.textContent||"")+i.type)),D=M[i.type]||M.underline,H=_?{x:_.x-T,y:_.y-N,w:_.w,h:_.h}:void 0;this.strokes=[],this._seq=[];var P=[];for(f=0;f<k.length;f++)for(var F=D({x:k[f].x-T,y:k[f].y-N,w:k[f].w,h:k[f].h},i,q,H),B=0;B<F.length;B++){var z=document.createElementNS(t,"path"),W=(null!=F[B].o?F[B].o:1)*i.opacity;if(z.setAttribute("d",F[B].d),z.setAttribute("fill","none"),z.setAttribute("stroke",i.color),z.setAttribute("stroke-width",h(F[B].w)),z.setAttribute("stroke-linecap",F[B].cap||"round"),z.setAttribute("stroke-linejoin","round"),F[B].fill){var U=document.createElementNS(t,"mask"),Q="scrawl-mask-"+ ++b;U.setAttribute("id",Q),U.setAttribute("maskUnits","userSpaceOnUse"),U.setAttribute("x",0),U.setAttribute("y",0),U.setAttribute("width",h(R)),U.setAttribute("height",h(E)),z.setAttribute("stroke","#fff"),U.appendChild(z),I.appendChild(U);var Z=document.createElementNS(t,"path");Z.setAttribute("d",F[B].fill),Z.setAttribute("fill",i.color),Z.setAttribute("mask","url(#"+Q+")"),Z.setAttribute("opacity",W),I.appendChild(Z),P.push({node:Z,reach:0})}else z.setAttribute("opacity",W),I.appendChild(z),P.push({node:z,reach:F[B].w/2*("square"===F[B].cap?Math.SQRT2:1)});this.strokes.push(z),this._seq.push({then:!!F[B].then,span:F[B].span||1})}return this.strokes.length?(a.appendChild(I),function(t,e,r,s){for(var i=1/0,n=1/0,o=-1/0,a=-1/0,u=0;u<e.length;u++){var l;try{l=e[u].node.getBBox()}catch(t){return}var d=e[u].reach+1;i=Math.min(i,l.x-d),n=Math.min(n,l.y-d),o=Math.max(o,l.x+l.width+d),a=Math.max(a,l.y+l.height+d)}if(!(o>i&&a>n))return;i=Math.floor(i),n=Math.floor(n);var c=Math.ceil(o)-i,f=Math.ceil(a)-n;t.setAttribute("width",h(c)),t.setAttribute("height",h(f)),t.setAttribute("viewBox",h(i)+" "+h(n)+" "+h(c)+" "+h(f));var p=t.style;p.left=h(r+i)+"px",p.top=h(s+n)+"px",p.width=h(c)+"px",p.height=h(f)+"px"}(I,P,T,N),this.svg=I,this._resolved=i,this.shown?this._paint(!1):this._hideStrokes(this._hidden),this):this},j.prototype._hideStrokes=function(t){var e=this._resolved||this.opts;if(e.animate&&!this._muted(e))for(var r=0;r<this.strokes.length;r++){var s=N(this.strokes[r]),i=this.strokes[r].style;i.transition="none",i.strokeDasharray=s+" "+s,i.strokeDashoffset="left"===e.direction?-s:s}else t&&this.svg&&(this.svg.style.visibility="hidden")},j.prototype._paint=function(t){var r,s,i,n=this._resolved||this.opts,o=t&&n.animate&&!this._muted(n);if(this._stopAnims(),this._revealTimer&&(clearTimeout(this._revealTimer),this._revealTimer=null),this.svg&&this.strokes.length)if(this._hidden=!1,this.svg.style.visibility="",o){this._revealed=!1;var h=this.strokes.length&&"function"==typeof this.strokes[0].animate,a=n.delay+n.duration,u=this._timing(n);for(this._anims=[],r=0;r<this.strokes.length;r++){i=(s=this.strokes[r]).style;var l=N(s),d="left"===n.direction?-l:l;a=Math.max(a,u[r].wait+u[r].dur),i.strokeDasharray=l+" "+l,h?(i.transition="none",i.strokeDashoffset="0",this._anims.push(s.animate([{strokeDashoffset:d},{strokeDashoffset:0}],{duration:u[r].dur,delay:u[r].wait,easing:e,fill:"backwards"}))):(i.transition="none",i.strokeDashoffset=d)}if(!h)for(this.svg.getBoundingClientRect(),r=0;r<this.strokes.length;r++)this.strokes[r].style.transition="stroke-dashoffset "+u[r].dur/1e3+"s "+e+" "+u[r].wait/1e3+"s",this.strokes[r].style.strokeDashoffset="0";var c=this;this._revealTimer=setTimeout((function(){c._revealed=!0,c._revealTimer=null}),a+60)}else{for(r=0;r<this.strokes.length;r++)(i=this.strokes[r].style).transition="none",i.strokeDasharray="none",i.strokeDashoffset="0";this._revealed=!0}},j.prototype._timing=function(t){for(var e=[],r=0,s=0;s<this.strokes.length;s++){var i=this._seq[s]||{},n=e[s-1];e.push({wait:i.then&&n?n.wait+.8*n.dur:t.delay+r++*t.duration*t.stagger,dur:t.duration*(i.span||1)})}return e},j.prototype.show=function(t){return this.shown=!0,this.svg||this.render(),this._paint(!1!==t),this},j.prototype.hide=function(){return this.shown=!1,this._hidden=!0,this._stopAnims(),this._revealTimer&&(clearTimeout(this._revealTimer),this._revealTimer=null),this._revealed=!1,this._hideStrokes(!0),this},j.prototype.refresh=function(){var t=this.shown,e=this._revealed;return this.render(),t&&this._paint(!e),this},j.prototype.destroySvg=function(){this._stopAnims(),this.svg&&this.svg.parentNode&&this.svg.parentNode.removeChild(this.svg),this.svg=null,this.strokes=[],this._seq=[]},j.prototype._releaseHost=function(){var t=this._host;if(this._host=null,t){for(var e=0;e<O.length;e++)if(O[e]!==this&&O[e]._host===t)return;var r=t.__scrawlHost;r&&(t.style.position=r.pos,t.style.isolation=r.iso,t.__scrawlHost=null)}},j.prototype.remove=function(){this._io&&(this._io.disconnect(),this._io=null),this._ro&&(this._ro.disconnect(),this._ro=null),this._revealTimer&&(clearTimeout(this._revealTimer),this._revealTimer=null);var t=O.indexOf(this);return t>-1&&O.splice(t,1),this.el&&this.el.__scrawl===this&&(this.el.__scrawl=null),this._releaseHost(),this.destroySvg(),this},j.prototype.observe=function(){var t=this;if(!("IntersectionObserver"in window))return this.show(!0),this;this._io&&(this._io.disconnect(),this._io=null);var e=this.opts.threshold;return"number"==typeof e&&isFinite(e)||(e=i.threshold),e=f(e,0,1),this._io=new IntersectionObserver((function(e){for(var r=0;r<e.length;r++)e[r].isIntersecting?(t.show(!0),!t.opts.repeat&&t._io&&(t._io.disconnect(),t._io=null)):t.opts.repeat&&t.hide()}),{threshold:e}),this._io.observe(this.el),this};var E={thickness:1,opacity:1,passes:1,jitter:1,duration:1,delay:1,stagger:1,threshold:1,gap:1},I={animate:1,front:1,repeat:1,respectReducedMotion:1};var O=[],q=!1;function D(){q||(q=!0,requestAnimationFrame((function(){q=!1;for(var t=0;t<O.length;t++)O[t].refresh()})))}var H=null;function P(t){var e,r;if(!H)for(H=[],e=0;e<O.length;e++)r=O[e],H.push({a:r,shown:r.shown,hidden:r._hidden});for(e=0;e<O.length;e++)r=O[e],t?(r.shown=!0,r.render()):r.show(!1)}function F(){if(H){var t=H;H=null;for(var e=0;e<t.length;e++){var r=t[e].a;O.indexOf(r)<0||(r.shown=t[e].shown,r._hidden=t[e].hidden,r.render())}}}function B(t,e){if("string"==typeof t&&(t=document.querySelector(t)),!t)return null;var r,n={};for(r in i)T(i,r)&&(n[r]=i[r]);var o=function(t){var e={},r=t.dataset||{};for(var s in r.scrawl&&(e.type=r.scrawl),r)if(T(r,s)&&"scrawl"!==s&&0===s.indexOf("scrawl")){var i=s.charAt(6).toLowerCase()+s.slice(7),n=r[s];if(E[i]){var o=parseFloat(n);isFinite(o)&&(e[i]=R(i,o))}else I[i]?e[i]=!("false"===n||"0"===n):"seed"===i&&/^-?\d+(?:\.\d+)?$/.test(n)?e[i]=parseFloat(n):e[i]=n}return e}(t);for(r in o)T(o,r)&&(n[r]=o[r]);if(e)for(r in e)T(e,r)&&(n[r]=e[r]);var h=new j(t,n);if(O.push(h),t.__scrawl=h,h.render(),"ResizeObserver"in window&&t.parentNode){var a=[t.parentNode];if(s[n.type]){var u=L(n.to);a=[h._host||t.parentNode,t],u&&u!==a[0]&&a.push(u)}!function(t,e){var r=[];t._ro=new ResizeObserver((function(e){for(var s=!1,i=0;i<e.length;i++){for(var n=e[i].contentRect,o=null,h=0;h<r.length;h++)if(r[h].node===e[i].target){o=r[h];break}o?((Math.abs(n.width-o.w)>.5||Math.abs(n.height-o.h)>.5)&&(s=!0),o.w=n.width,o.h=n.height):r.push({node:e[i].target,w:n.width,h:n.height})}s&&t.refresh()}));for(var s=0;s<e.length;s++)t._ro.observe(e[s])}(h,a)}return h}function z(t){for(var e=(t||document).querySelectorAll("[data-scrawl]"),r=[],s=0;s<e.length;s++)if(!e[s].__scrawl){var i=B(e[s]);if(i){try{i.observe()}catch(t){i.show(!0)}r.push(i)}}return r}var W={version:"0.2.0",shapes:["underline","curve","double","scribble","strike","marker","box","circle","bracket","cross","swoosh"],defaults:i,annotate:B,init:z,refresh:D,instances:O,generators:M,perLine:r,connectors:s,rng:n};if("undefined"!=typeof window){if(window.addEventListener("resize",D),window.addEventListener("beforeprint",(function(){P(!1)})),window.addEventListener("afterprint",F),window.matchMedia){var U=window.matchMedia("print");U.addEventListener&&U.addEventListener("change",(function(t){t.matches?P(!0):F()}))}document.fonts&&(document.fonts.ready&&document.fonts.ready.then(D).catch((function(){})),document.fonts.addEventListener&&document.fonts.addEventListener("loadingdone",D)),window.SCRAWL_NO_AUTOINIT||("loading"===document.readyState?document.addEventListener("DOMContentLoaded",(function(){z()})):z())}return W}));

diff --git a/scrawl.js b/scrawl.js
@@ -1,5 +1,5 @@
 /*!
- * Scrawl v0.1.0
+ * Scrawl v0.2.0
  * Hand drawn annotation strokes for HTML text. No dependencies.
  * Draws seeded, slightly wonky SVG paths behind (or over) inline text,
  * one stroke per line box, and arrows from one element to another, with
@@ -1264,7 +1264,7 @@
   }
 
   var api = {
-    version: '0.1.0',
+    version: '0.2.0',
     shapes: SHAPES,
     defaults: DEFAULTS,
     annotate: annotate,

diff --git a/index.html b/index.html
@@ -409,7 +409,7 @@
 <div class="sheet">
 
   <header class="row">
-    <div class="mark">v0.1.0</div>
+    <div class="mark">v0.2.0</div>
     <div class="wordmark">
       <h1>Scrawl</h1>
       <span class="ver">7.9&nbsp;KB gzipped · no deps</span>

diff --git a/scrawl-note.css b/scrawl-note.css
@@ -1,5 +1,5 @@
 /*!
- * Scrawl notes v0.1.0
+ * Scrawl notes v0.2.0
  * A sticky note with a strip of tape across the top, for a handwritten
  * aside. Pairs with the curl in scrawl.js and works without it. No
  * dependencies. MIT licence.

diff --git a/scrawl.css b/scrawl.css
@@ -1,5 +1,5 @@
 /*!
- * Scrawl CSS v0.1.0
+ * Scrawl CSS v0.2.0
  * Hand drawn annotation strokes with no JavaScript at all.
  * MIT licence.
  *

diff --git a/README.md b/README.md
@@ -46,7 +46,7 @@ That is it. It self initialises on DOM ready, scans for `[data-scrawl]`, and rev
 No build step, no install. If you would rather not vendor the file, jsDelivr will serve it straight off this repo. Pin a tag rather than `main` so an update cannot change under you:
 
 ```html
-<script src="https://cdn.jsdelivr.net/gh/platima/scrawl@v0.1.0/scrawl.min.js"></script>
+<script src="https://cdn.jsdelivr.net/gh/platima/scrawl@v0.2.0/scrawl.min.js"></script>
 ```
 
 Programmatic if you prefer:
@@ -64,13 +64,15 @@ Scrawl.annotate('#headline', {
 
 `underline` · `curve` · `double` · `scribble` · `strike` · `marker` · `box` · `circle` · `bracket` · `cross` · `swoosh`
 
-![Ten of the shapes, each drawn over a short phrase](screenshots/shapes.png)
+![The eleven shapes, each drawn over a short phrase](screenshots/shapes.png)
 
 `underline`, `curve`, `double`, `scribble`, `strike`, `marker` and `swoosh` draw one stroke per line box, so wrapped runs get a mark on every line. `box`, `circle`, `bracket` and `cross` use the union bounding box, because a circle around every line is not what anyone means.
 
 `swoosh` is a single tapered mark under the text, full weight in the middle and thinning to a point at each end, with no wobble. It suits display type, where the pen shapes get scaled up until they look scratchy. `jitter` sets its tilt in degrees and `passes` is ignored.
 
 ### Arrows
+
+![Arrows joining three cards, and a sticky note whose curl points at a line of code](screenshots/arrows.png)
 
 ```html
 <div id="browser" data-scrawl="arrow" data-scrawl-to="#server">Browser</div>
